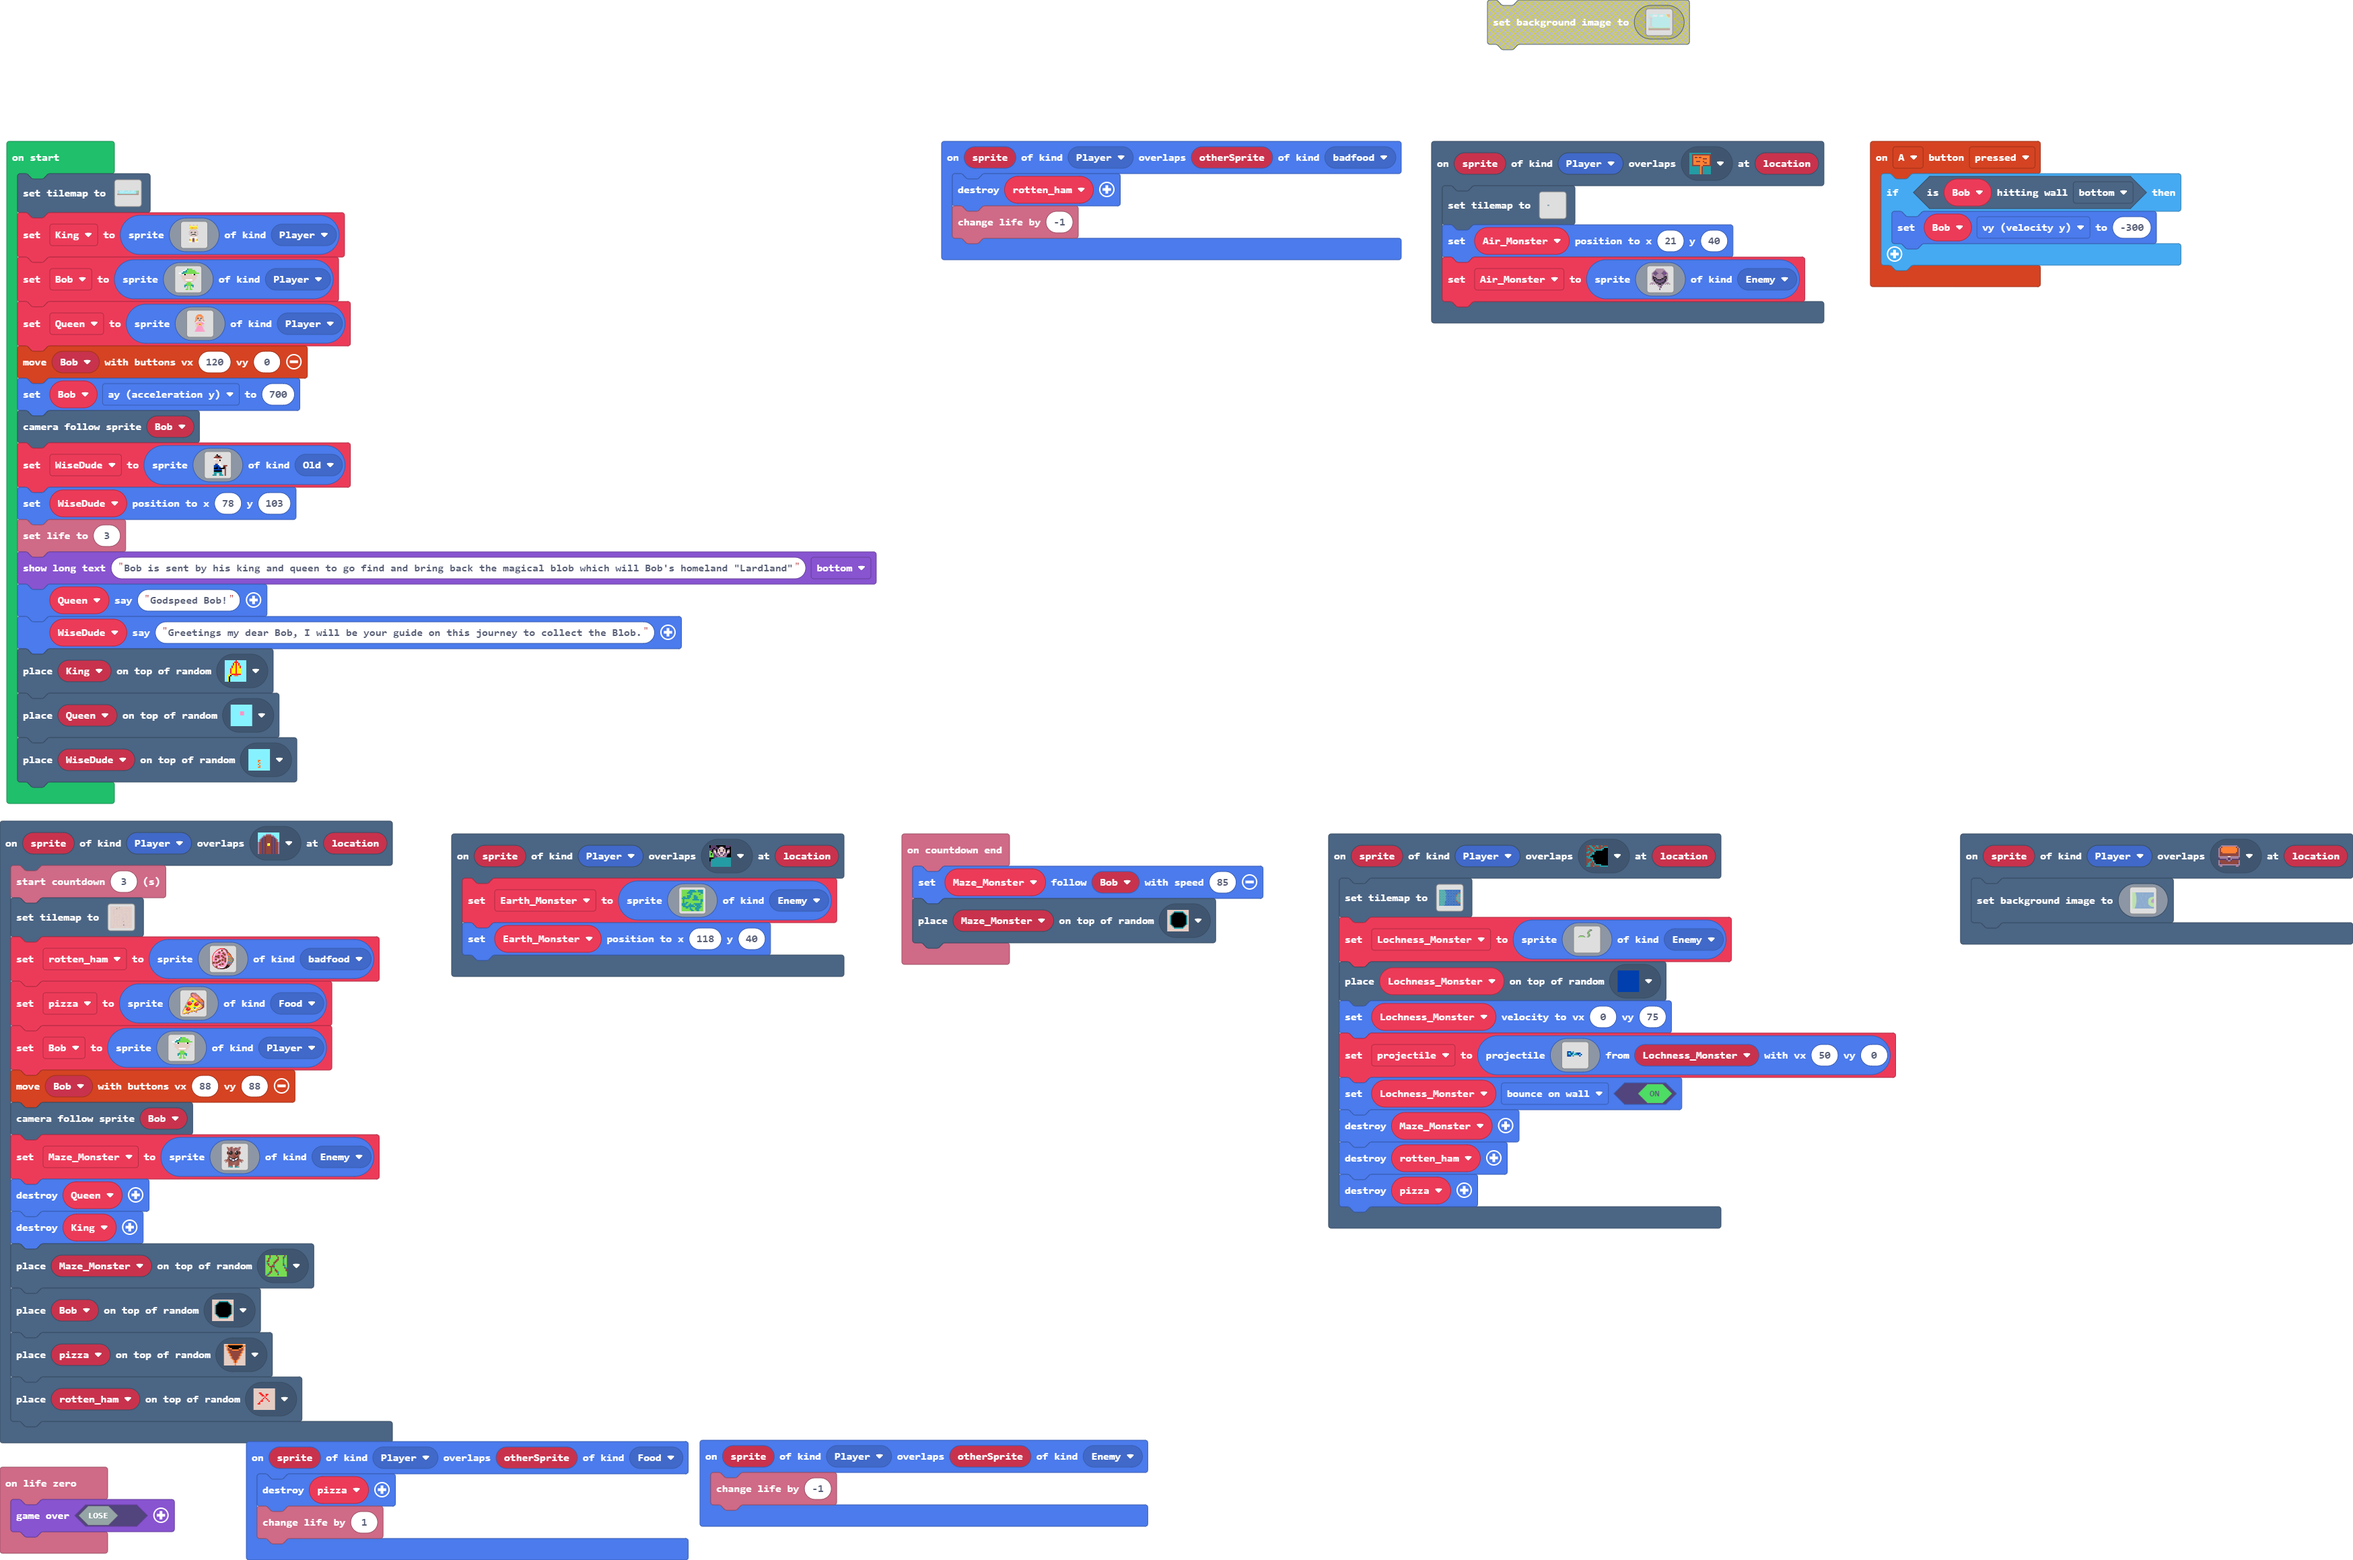
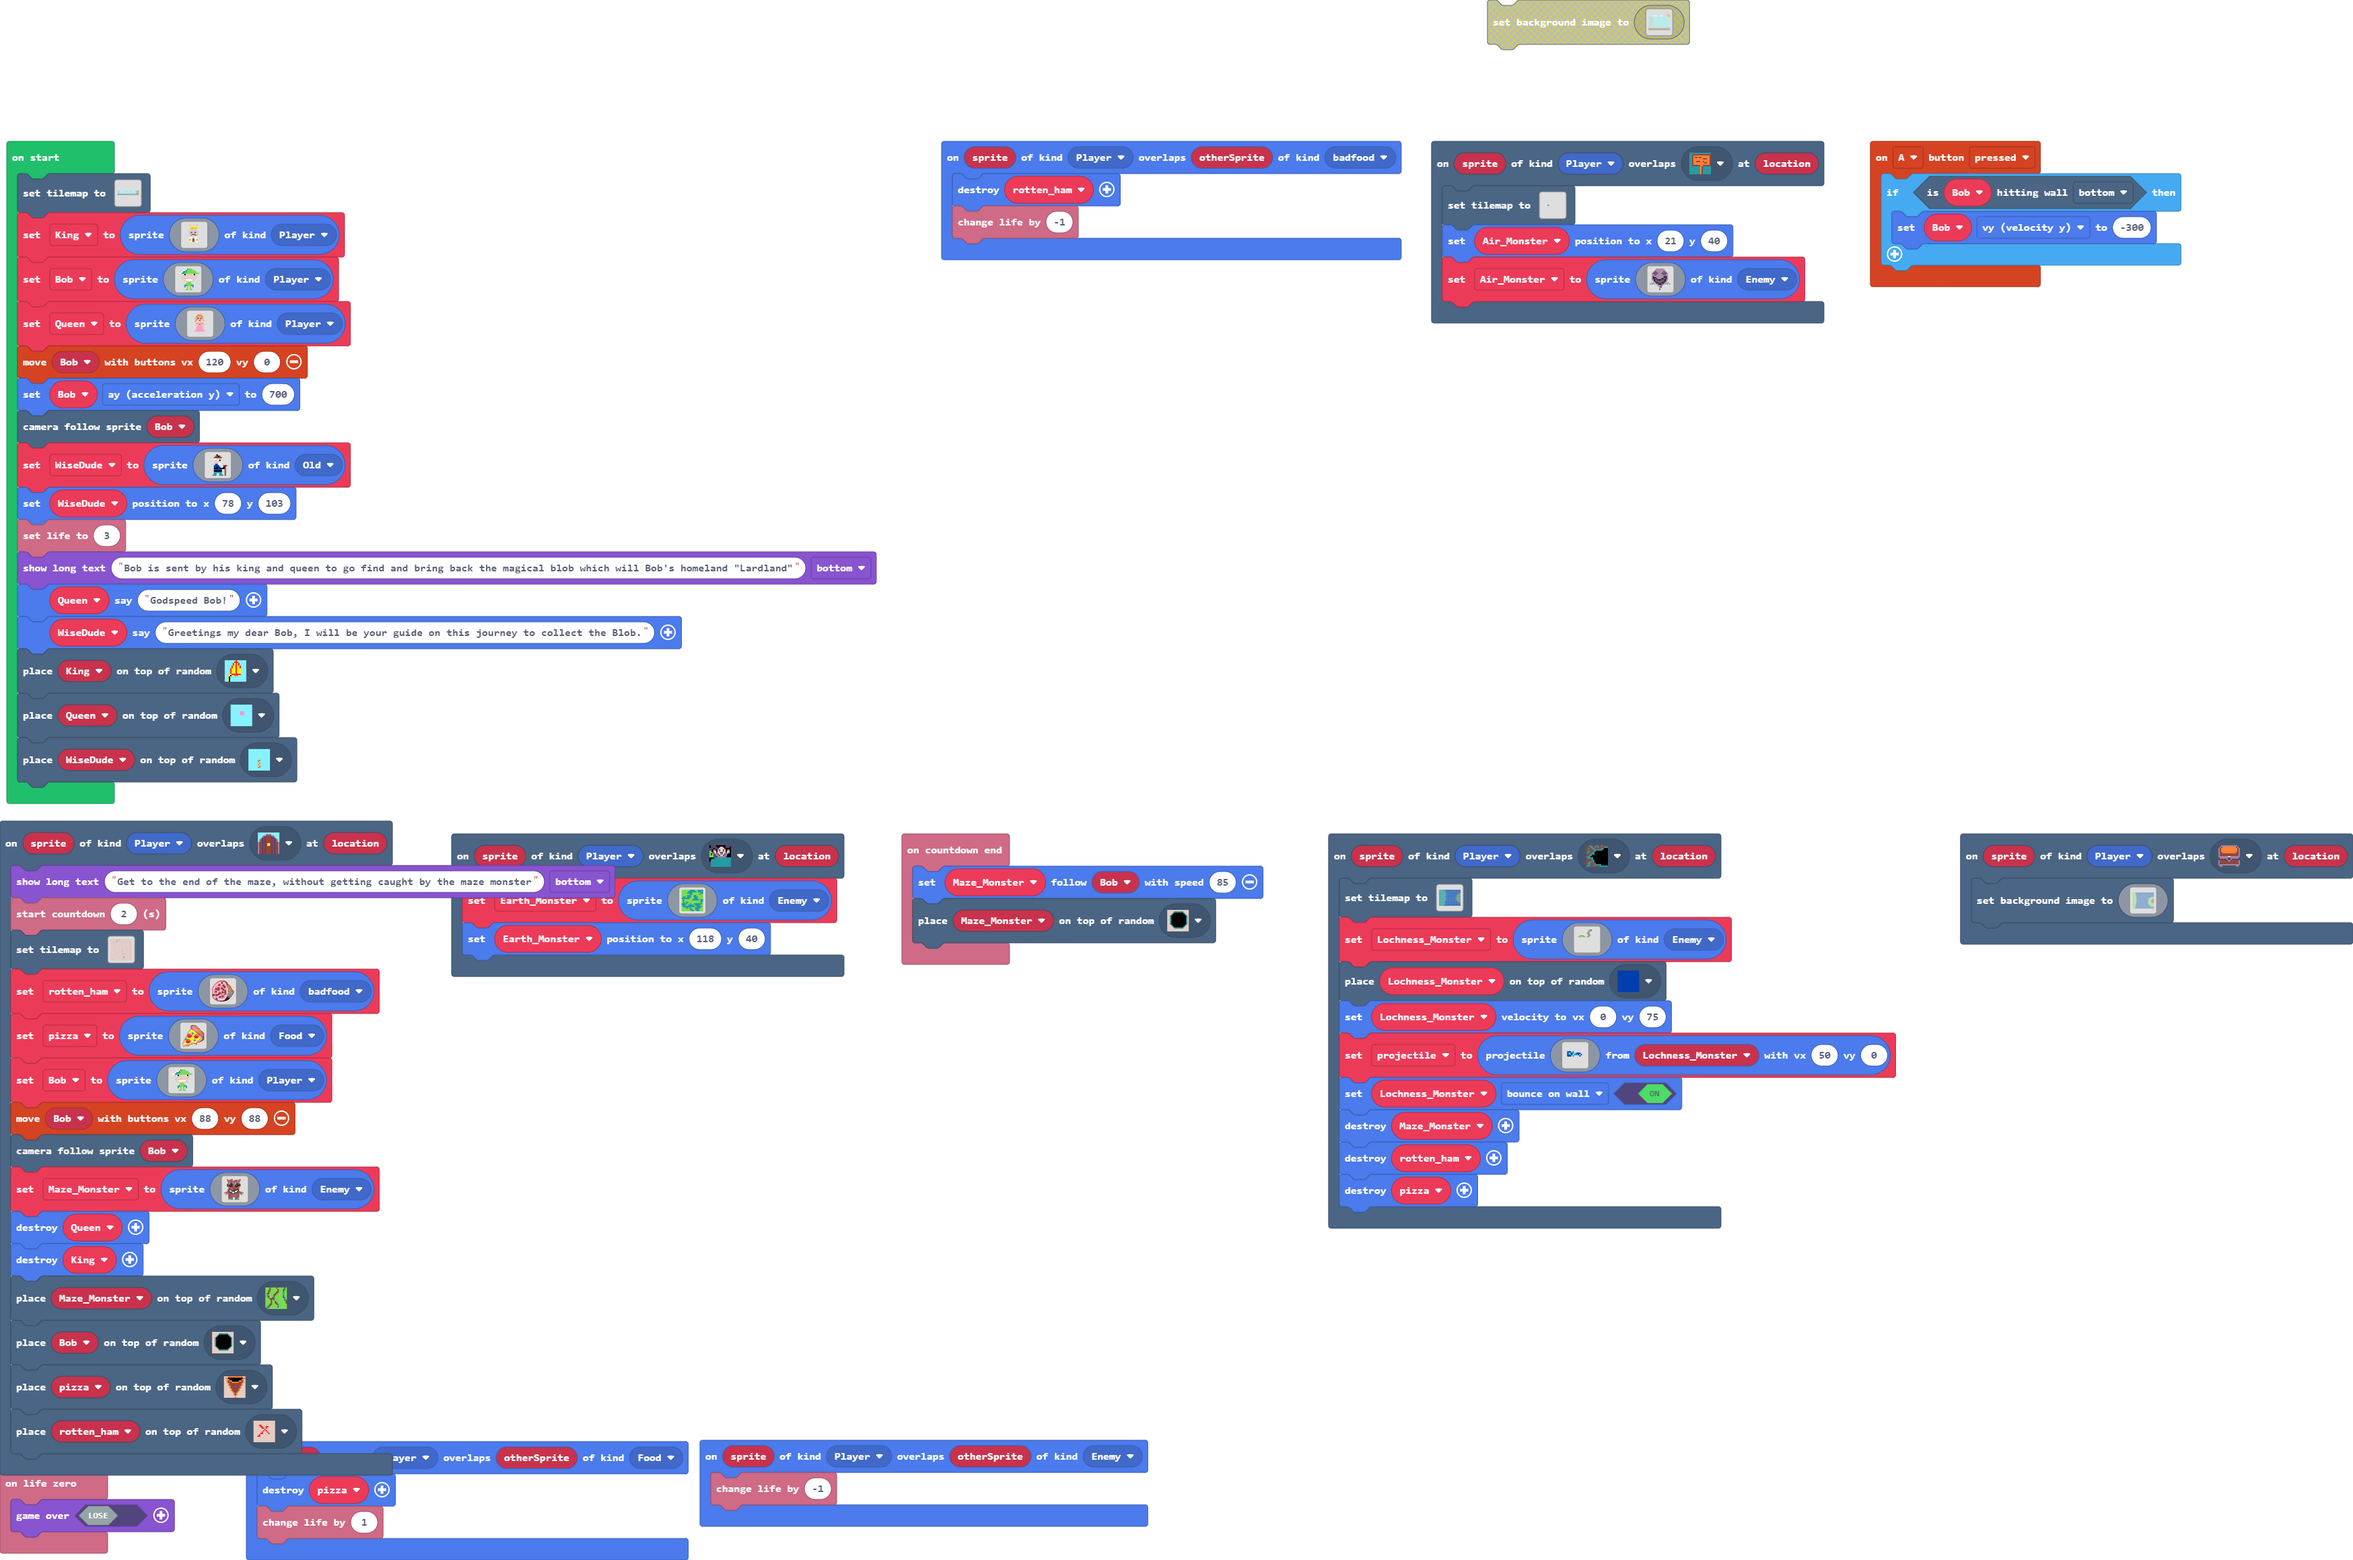
Update main.blocks, main.ts

Changed region(s): [[0.0, 0.528, 0.2806, 0.9629]]

diff --git a/main.ts b/main.ts
@@ -69,7 +69,8 @@ controller.A.onEvent(ControllerButtonEvent.Pressed, function () {
     }
 })
 scene.onOverlapTile(SpriteKind.Player, myTiles.tile8, function (sprite, location) {
-    info.startCountdown(3)
+    game.showLongText("Get to the end of the maze, without getting caught by the maze monster", DialogLayout.Bottom)
+    info.startCountdown(2)
     tiles.setTilemap(tiles.createTilemap(hex`1900190001010101010101010101010606010606060606060606060606010606060606060606060706060606060606060606060606060106060606060605060601060606060606010101010101060601060601010101010101010101010606060606060606010606010606010106060106060606060106060606060606060106060606060101060601060606060601060601010101010101060606060601010606010606010101010606060606060606010606060606010106060606060606060106060606060606060106060606060101060606060606060601060606010106060601060606060601010606060601010606010101010101060606010606060606060606060606060106060606060606010106060106060606060606060606060601060606060606060101060601060606060606010101010101010606010101060601010606010606060606060106060606060606060101010606010106060106060606060601060606060606060601010106060101060601060606060606010606010101010606010106060601010606010606010606060106060106060106060106060606060606060106060106060601060601060606060601060306060606060601060601060606010606010606060606010606060606010101010606010606060106060106060101010101010106060106060606060106060606060601060606060606060601060601060606060601060606060606010606060606060602010606010606010606010606010106060101010101010101010101010106060106060106060106060606060606060606060601060606060601060601060401060606060606060606060606010606060606010606`, img`
         22222222222..2...........
         2.........2..............
